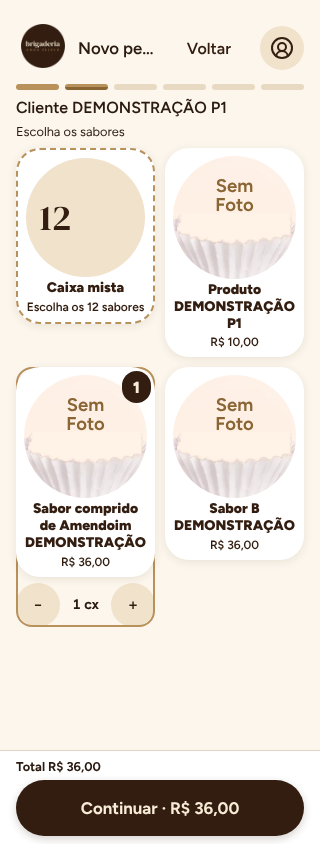
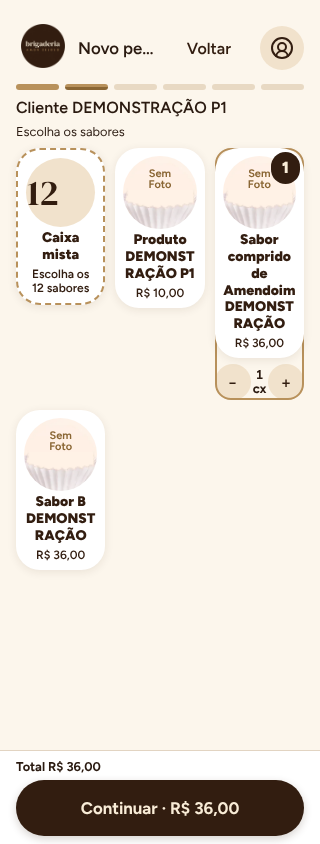
Sabores: volta para 3 colunas no celular, botões de 36 px dentro do cartão
Em telas de até 400 px o − e o + ficam com 36 px (acima dos 24 px
da WCAG 2.2) e a quantidade pode quebrar em duas linhas em 320 px.

Claude-Session: https://claude.ai/code/session_0141B4PnNJ4Mzj7mcUbY7h2t

diff --git a/src/theme.css b/src/theme.css
@@ -1471,9 +1471,29 @@ textarea::placeholder {
   width: 32px;
   height: 32px;
 }
-@media (max-width: 380px) {
-  .order-focus .flavor-grid {
-    grid-template-columns: repeat(2, minmax(0, 1fr));
+/* Celulares estreitos: mantém 3 colunas; botões de 36 px cabem no cartão. */
+@media (max-width: 400px) {
+  .order-focus .flavor-stepper {
+    grid-template-columns: 36px minmax(0, 1fr) 36px;
+    gap: 2px;
+  }
+  .order-focus .flavor-stepper > button {
+    width: 36px;
+    min-width: 36px;
+    height: 36px;
+    min-height: 36px;
+  }
+  .order-focus .flavor-stepper b {
+    overflow-wrap: normal;
+    white-space: normal;
+    line-height: 1.1;
+    font-size: 0.8125rem;
+    text-align: center;
+  }
+  .order-focus .mix-card .flavor-add strong {
+    white-space: normal;
+    overflow: visible;
+    text-overflow: clip;
   }
 }
 

diff --git a/tests/e2e/t10-order.spec.js b/tests/e2e/t10-order.spec.js
@@ -149,8 +149,9 @@ async function checkBounds(parent, children) {
     const rect = await child.boundingBox();
     expect(rect.x).toBeGreaterThanOrEqual(box.x - 1);
     expect(rect.x + rect.width).toBeLessThanOrEqual(box.x + box.width + 1);
-    expect(rect.width).toBeGreaterThanOrEqual(44);
-    expect(rect.height).toBeGreaterThanOrEqual(44);
+    // 3 colunas no celular: alvos de 36 px (acima do mínimo de 24 px da WCAG 2.2).
+    expect(rect.width).toBeGreaterThanOrEqual(36);
+    expect(rect.height).toBeGreaterThanOrEqual(36);
   }
 }
 test('T10 primeira retomada depois de Voltar do navegador, com catálogo lento e modo completo salvo', async ({
